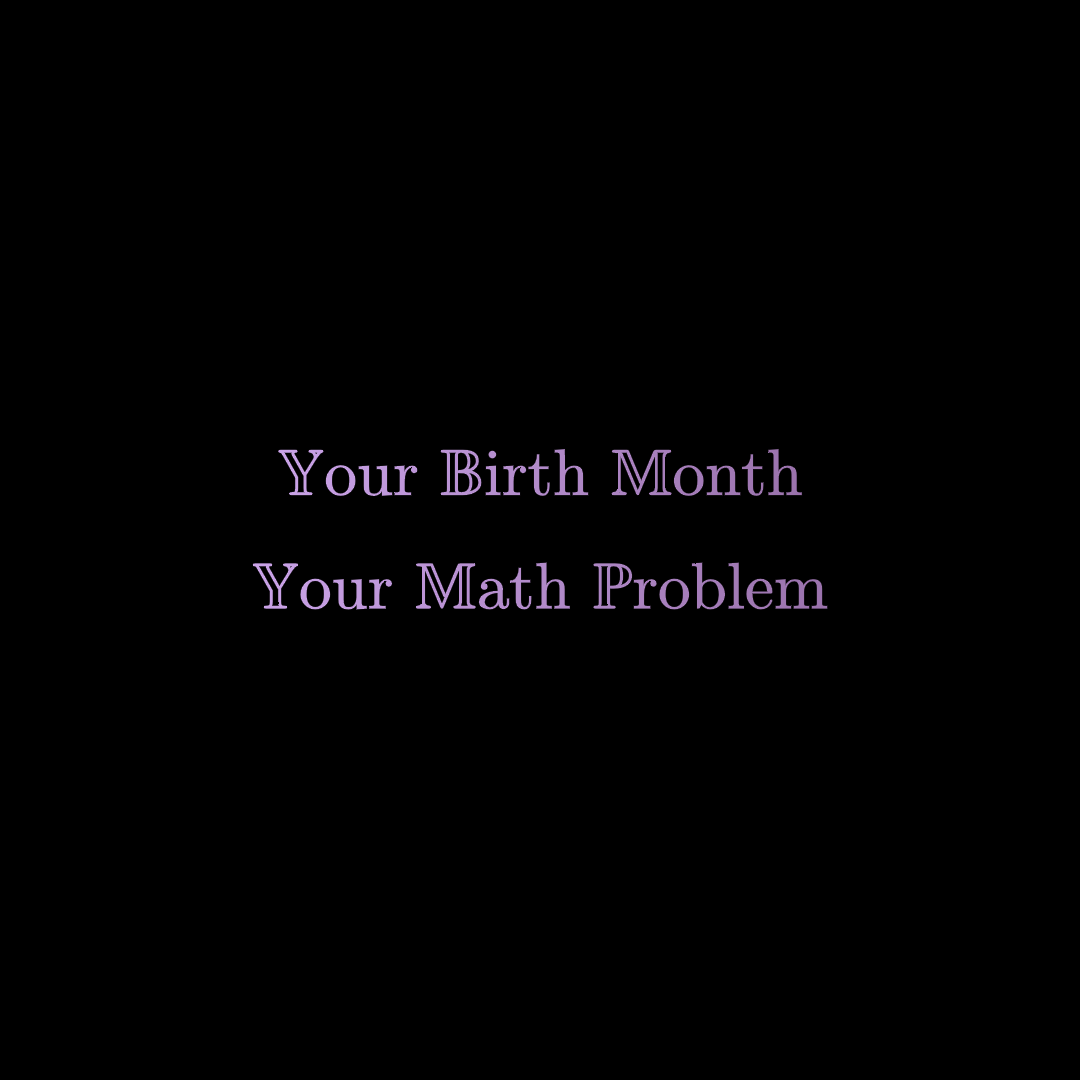
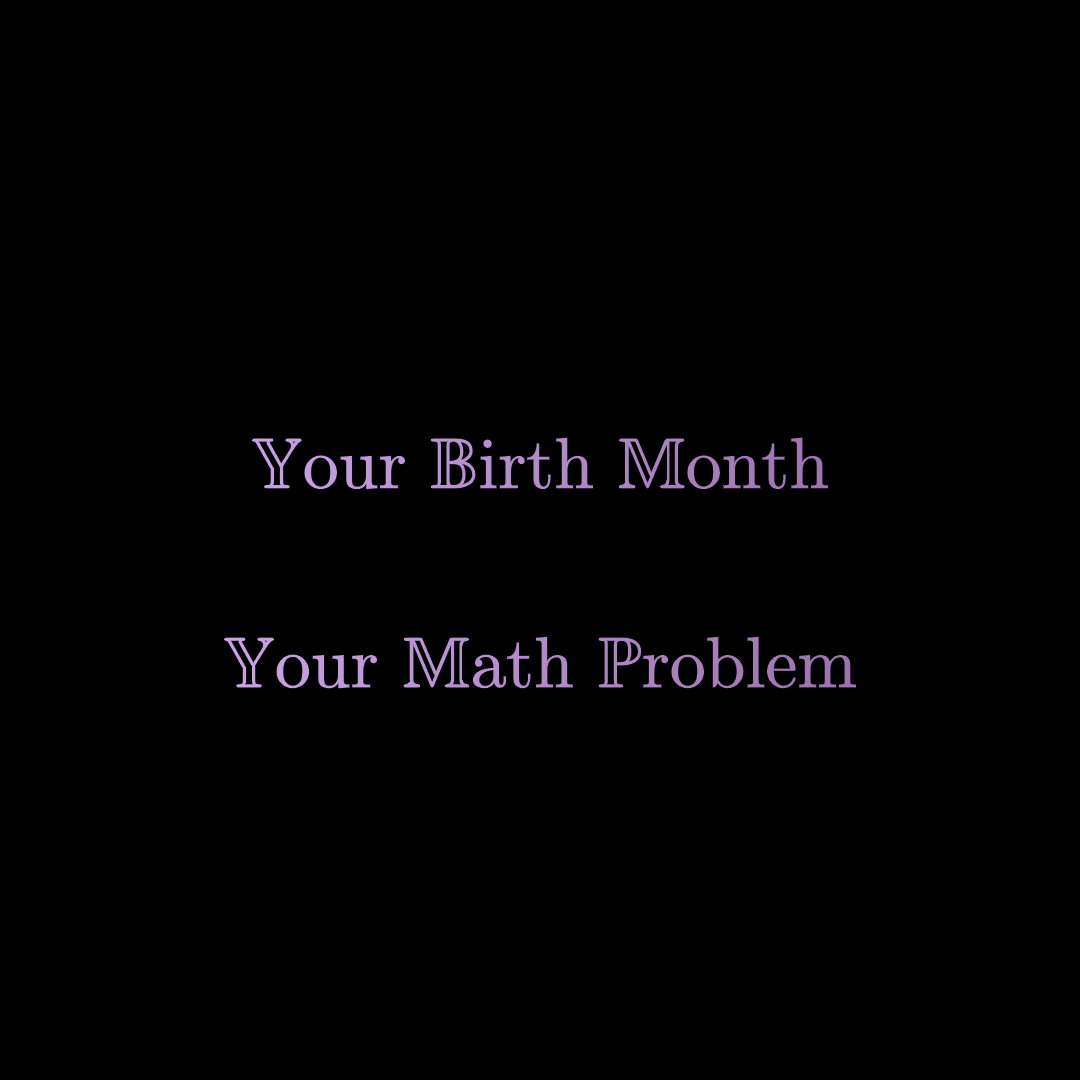
f

Changed region(s): [[0.2139, 0.5194, 0.7944, 0.6417], [0.2444, 0.3972, 0.7639, 0.4583]]

diff --git a/month.py b/month.py
@@ -7,8 +7,9 @@ class YourProbelm(InteractiveScene):
         math = TexText(R"$\mathbb{Y}$our $\mathbb{M}$ath $\mathbb{P}$roblem")
 
         problem.shift(UP * 0.5)
-        math.next_to(problem, DOWN, buff=MED_LARGE_BUFF)
-        problem.set_color(color)
-        math.set_color(color)
+        math.next_to(problem, DOWN, buff=LARGE_BUFF)
 
-        self.add(problem, math)
+        pm = VGroup(problem, math)
+        pm.set_color(color)
+        pm.scale(1.1)
+        self.add(pm)
